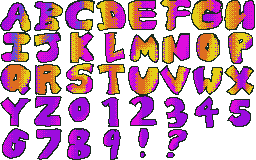
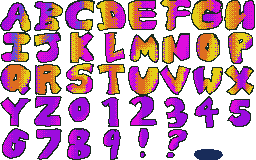
brokenish shadows

Changed region(s): [[0.75, 0.9062, 0.875, 1.0]]

diff --git a/src/spritetext.c b/src/spritetext.c
@@ -17,14 +17,26 @@ OBJ_AFFINE *obj_aff_buffer = (OBJ_AFFINE*)obj_buffer;
 u32 pb = 0;
 
 vec2_t origin = VEC2(16 - (LETTER_SIZE * 2), 80 - (LETTER_SIZE / 2));
+vec2_t side_origin = VEC2(0, 100 - (LETTER_SIZE / 2));
+vec2_t offscreen_origin = VEC2(256, 100 - (LETTER_SIZE / 2));
 // vec2_t origin = VEC2(120 - (LETTER_SIZE * 2), 80 - (LETTER_SIZE / 2));
 
-extern s16 sine_table[1024];
-char* debug_text_scroller = "HELLO WORLD THIS IS AYCE WHAT IS UP? THE QUICK BROWN FOX! JUMPED OVER THE LAZY DOG. 1234567890";
+typedef struct DebugSent {
+    int32_t senti;
+    int val;
+} DebugSent;
+DebugSent senti = { 999, 0 };
 
-// void set_word_pos(Letter*, int*);
+extern s16 sine_table[1024];
+char* debug_text_scroller = "          YO!! WHAT IS UP!  AYCE HERE WITH SOME COMPOFILLER PRODUCED UNDER EXTREME DURESS! NOTHING LIKE MAKING A PROD MOMENTS BEFORE DEADLINE EH? CODE BY NATT AND TFX   GRAPHICS GRACIOUSLY CREATED BY HIIJ   MUSIC SHAMELESSLY REPOSTED FROM MY ENTRY TO CHIPCHOP17 THANKS FOR ORGANIZING SUCH A COOL DISK RAMON!  ";
+int debug_text_scroller_len = 0;
+int debug_text_scroller_ind = 0;
+int newWord = FALSE;
+int wordId = 0;
+
 void debug_set_word_pos(Letter*);
 int debug_map_char_to_int(const char c);
+void set_letter_pos(Letter*);
 
 Letter* init_letters(Letter* letters)
 {
@@ -34,76 +46,137 @@ Letter* init_letters(Letter* letters)
 
     for (int i = 0; i < NUM_LETTERS; i++)
     {
-        letters[i] = (Letter){i, origin, 24 << 4, &obj_buffer[i], FALSE, i == 0};
+        letters[i] = (Letter){i, origin, 24 << 4, &obj_buffer[i], &obj_buffer[i+NUM_LETTERS], FALSE};
     }
+
+    debug_text_scroller_len = strlen(debug_text_scroller);
+    debug_set_word_pos(letters);
 }
 
 int debug_map_char_to_int(const char c) {
     if (c >= 65 && c <= 90) return c - 65;
     if (c >= 48 && c <= 56) return c - 20;
-    if (c == 32) return 0;
+    if (c == 32) return -2;
     if (c == 33) return 36;
     if (c == 63) return 37;
     return -1;
 }
 
 void debug_set_word_pos(Letter* letters) {
-    char* word = "HELLO TEST";
+    char* word = "         ";
+    // char* word = "HELLOWORL";
     int strl = strlen(word);
     for (int i = 0; i < strl; i++)
     {
-        add_letter(letters, debug_map_char_to_int(word[i]), add_vec2(origin, VEC2(LETTER_SIZE * i + 1, 0)));
+        add_letter(letters, debug_map_char_to_int(word[i]), add_vec2(side_origin, VEC2(LETTER_SIZE * i + 1, 0)));
     }
+    debug_text_scroller_ind = 8;
+}
+
+void set_letter_pos(Letter* letter) {
+    obj_set_pos(letter->oam, comp_to_int(letter->curr_pos.x), comp_to_int(letter->curr_pos.y));
+    obj_set_pos(letter->shadow, comp_to_int(letter->curr_pos.x), 110);        
 }
 
 int add_letter(Letter* letters, int letter, vec2_t startingPos) {
-    if (letter == 0) return -1;
     for (int i = 0; i < NUM_LETTERS; i++)
     {
         if (letters[i].on_screen) continue;
-        letters[i].curr_pos = startingPos;
         letters[i].on_screen = TRUE;
+
+        if (letter == -2) newWord = TRUE;
+        else if (newWord) {
+            newWord = FALSE;
+            wordId = !wordId;
+        }
+
+        letters[i].id = wordId;
+        letters[i].curr_pos = startingPos;
+
+        if (letter == -2) return -1;
+        senti.val = letters[i].id;
         obj_set_attr(letters[i].oam,
             ATTR0_SQUARE | ATTR0_AFF_DBL,
-            ATTR1_SIZE_32 | ATTR1_AFF_ID(i),
+            ATTR1_SIZE_32 | ATTR1_AFF_ID(letters[i].id),
             ATTR2_PALBANK(6) | tileOffset(letter));
-        obj_aff_identity(&obj_aff_buffer[i]);
-        obj_set_pos(letters[i].oam, comp_to_int(letters[i].curr_pos.x), comp_to_int(letters[i].curr_pos.y));            
+        // shadow
+        obj_set_attr(letters[i].shadow,
+            ATTR0_SQUARE | ATTR0_AFF_DBL,
+            ATTR1_SIZE_32 | ATTR1_AFF_ID(letters[i].id),
+            ATTR2_PALBANK(6) | tileOffset(38));
+
+        set_letter_pos(&letters[i]);    
         return i;
     }
     return -1;
 }
 
-void update_letter(Letter *letter, uint tick, uint pos) {
+// TODO: lazy pass whole array so that we can create next letters
+void update_letter(Letter *letters, Letter *letter, uint tick, uint pos) {
     if (letter == NULL) return;
     if (!letter->on_screen) return;
 
     int32_t x = comp_to_int(letter->curr_pos.x);
-    int32_t y = comp_to_int(letter->curr_pos.y);
 
+    letter->curr_pos.x -= SCALAR(1);
     if (x < -32)
     {
         kill_letter(letter);
         return;
     }
 
-    int32_t sine = sine_table[(tick + pos)&1023] / 2;
-    letter->curr_pos.y += sine;
-    //letter->curr_pos.x -= SCALAR(1);
-
-    letter->scale = ((sine_table[((tick) - pos)&1023]) >> 8) + MID_SCALE;
-    obj_aff_rotscale(&obj_aff_buffer[letter->id], letter->scale, letter->scale, 0);
-    obj_set_pos(letter->oam, comp_to_int(letter->curr_pos.x), comp_to_int(letter->curr_pos.y));            
+    letter->curr_pos.y += sine_table[(tick + x)&1023] / 6;
+    if (letter->curr_pos.y > SCALAR(100)) letter->curr_pos.y = SCALAR(100);
+    set_letter_pos(letter);
 }
 
+void update_scale(int tick) {
+    int32_t sine = ((sine_table[((tick))&1023]) >> 8) + MID_SCALE;
+    int32_t sine2 = ((sine_table[((tick + 512))&1023]) >> 8) + MID_SCALE;
+    obj_aff_rotscale(&obj_aff_buffer[0], sine, sine, 0);
+    obj_aff_rotscale(&obj_aff_buffer[1], sine2, sine2, 0);
+}
+
+// TODO: lazy pass whole array so that we can create next letters
 void kill_letter(Letter* letter) {
-    letter->on_screen = FALSE;
-    memset32(letter->oam, 0, 2);
-    obj_set_pos(letter->oam, 0, 160); //off screen
+    int nextLetter = debug_map_char_to_int(debug_text_scroller[debug_text_scroller_ind]);
+    debug_text_scroller_ind++;
+    if (debug_text_scroller_ind > debug_text_scroller_len)
+        debug_text_scroller_ind = 0;
+
+    if (nextLetter == -2) newWord = TRUE;
+    else if (newWord) {
+        newWord = FALSE;
+        wordId = !wordId;
+    }
+
+    letter->id = wordId;
+    letter->curr_pos = offscreen_origin;
+
+    if (nextLetter == -2) 
+    {
+        memset32(letter->oam, 0, 2);
+        memset32(letter->shadow, 0, 2);
+        obj_set_pos(letter->oam, 0, 160); //off screen
+        obj_set_pos(letter->shadow, 0, 160);
+        return;   
+    }
+    obj_set_attr(letter->oam,
+        ATTR0_SQUARE | ATTR0_AFF_DBL,
+        ATTR1_SIZE_32 | ATTR1_AFF_ID(letter->id),
+        ATTR2_PALBANK(6) | tileOffset(nextLetter));
+    // shadow
+    obj_set_attr(letter->shadow,
+        ATTR0_SQUARE | ATTR0_AFF_DBL,
+        ATTR1_SIZE_32 | ATTR1_AFF_ID(letter->id),
+        ATTR2_PALBANK(6) | tileOffset(38));
+
+    set_letter_pos(letter);
 }
 
-void render_letters() {
-    oam_copy(oam_mem, obj_buffer, NUM_LETTERS);
+void render_letters(int tick) {
+    update_scale(tick);
+    oam_copy(oam_mem, obj_buffer, NUM_LETTERS*2);
 }
 
 

diff --git a/src/spritetext.h b/src/spritetext.h
@@ -2,20 +2,19 @@
 #define _SPRITETEXT_H
 
 #define LETTER_SIZE 32
-#define NUM_LETTERS 32
+#define NUM_LETTERS 9
 
 #include "tonc_types.h"
 #include "tonc_math.h"
 #include "lap.h"
 
-
 typedef struct Letter {
-    int32_t id;
+    uint32_t id;
     vec2_t curr_pos;
     FIXED scale;
     OBJ_ATTR *oam;
+    OBJ_ATTR *shadow;
     int on_screen;
-    int front_letter;
 } Letter;
 
 typedef struct Word {
@@ -33,8 +32,8 @@ inline u32 tileOffset(int i) { return ((i % 8) * 4) + ((i / 8) * 128); }
 Letter* init_letters(Letter* letters);
 int add_letter(Letter* letters, int letter, vec2_t startingPos);
 void kill_letter(Letter *letter);
-void update_letter(Letter *letter, uint tick, uint pos);
-void render_letters();
+void update_letter(Letter *letters, Letter *letter, uint tick, uint pos);
+void render_letters(int tick);
 
 int all_offscreen(Letter* letters);
 

diff --git a/src/main.c b/src/main.c
@@ -126,7 +126,6 @@ int main() {
     while (1)
     {
         VBlankIntrWait();
-        
 
         s32 sr = sine_table[frame&1023];
         s32 cr = sine_table[(frame+256)&1023];
@@ -150,10 +149,10 @@ int main() {
         uint j = 0;
         for (int i = 0; i < NUM_LETTERS; i++)
         {
-            update_letter(&letters[i], frame * 4, j * 64);
+            update_letter(letters, &letters[i], frame, j * 64);
             j++;
         }
-        render_letters();
+        render_letters(frame * 4);
 
         frame++;
     }

diff --git a/res/ayceFontSheet.h b/res/ayceFontSheet.h
@@ -8,7 +8,7 @@
 //	+ 640 tiles not compressed
 //	Total size: 512 + 20480 = 20992
 //
-//	Time-stamp: 2024-06-12, 16:12:45
+//	Time-stamp: 2024-06-14, 21:55:05
 //	Exported by Cearn's GBA Image Transmogrifier, v0.9.2
 //	( http://www.coranac.com/projects/#grit )
 //
